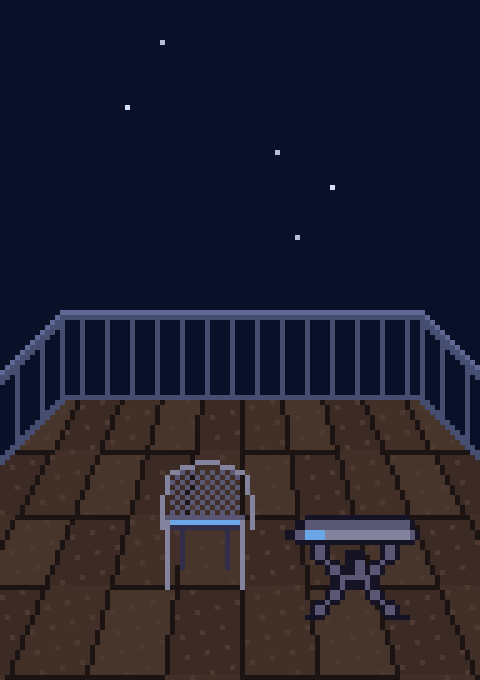
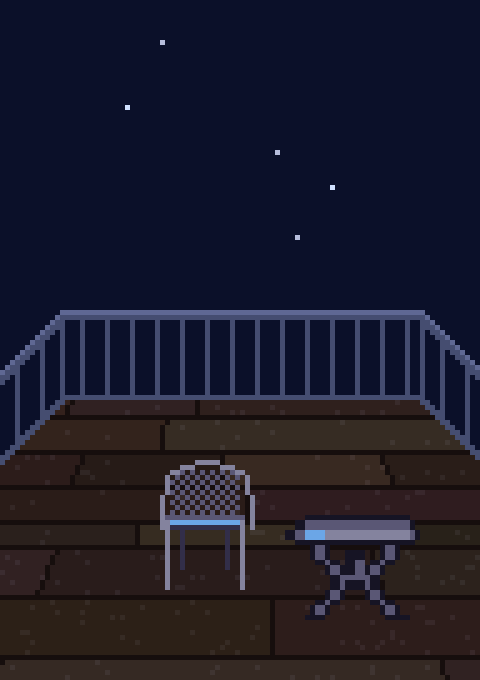
Balcony 2D: horizontal irregular dark plank floor
Claude-Session: https://claude.ai/code/session_01FPZSaKiVNU2zED737yZX4w

Changed region(s): [[0.0, 0.5868, 1.0, 1.0]]

diff --git a/tools/render_balcony2d.py b/tools/render_balcony2d.py
@@ -29,19 +29,32 @@ def main():
     ST, SB = 3, 2                                                 # 양옆 꺾인 부분 윗줄만 한 칸 더 굵게
     def base_at(x):                                        # 아래 가로대(땅 경계)의 높이
         d = max(L - x, x - Rr, 0); return round(base_y + d)
-    # 나무판자 바닥(원근법): 소실점 (VX, VY)로 모이는 판자 이음선, 가까울수록 판이 커진다
-    PL = [(78, 52, 35), (70, 47, 32), (84, 57, 38)]
-    VX, VY, G, BW = W / 2, 20.0, 1.18, 8.0
+    # 나무판자 바닥(원근법): 판은 가로로 길게, 줄 사이 이음은 가로선, 판 끝 이음은 소실점으로 모인다. 폭·색·이음 위치는 불규칙
+    fr = random.Random(21)
+    VX, VY = W / 2, 20.0
+    rows, t = [], 1.0
+    while t < 2.2:                                        # 줄의 깊이 경계(t=1 안쪽 끝, 클수록 가깝다), 줄 폭 불규칙
+        nt = t * (1 + fr.uniform(.05, .13)); rows.append((t, nt)); t = nt
+    base_cols = [(60, 40, 27), (52, 34, 24), (66, 44, 29), (56, 37, 26), (48, 32, 22)]
+    row_info = []
+    for (t0, t1) in rows:
+        joints, xj = [], fr.uniform(-60, 0)
+        while xj < 200:
+            xj += fr.uniform(22, 70); joints.append(xj)    # 안쪽 끝 기준 판 끝 위치
+        cols = [tuple(max(0, v + fr.randint(-4, 4)) for v in fr.choice(base_cols)) for _ in joints]
+        row_info.append((t0, t1, joints, cols))
     for x in range(W):
         for y in range(base_at(x) + (SB if (x < L or x > Rr) else TB), H):
-            t = (y - VY) / (base_y - VY)                       # 1 = 안쪽 끝(철창 아래), 클수록 가깝다
-            xb = VX + (x + .5 - VX) / t; u = math.floor(xb / BW)  # 안쪽 끝 기준 가로 위치 → 판 번호
-            k = math.log(t) / math.log(G); r = math.floor(k)    # 앞뒤 방향 줄 번호
-            rowh = (base_y - VY) * t * math.log(G)              # 이 줄의 화면 높이
-            c = PL[(u * 5 + r * 2) % 3]
-            if ((xb - u * BW) * t < 1.0): c = (34, 22, 16)       # 판 사이 세로 이음(소실점으로 모임)
-            elif (k - r) * rowh < 1.0 and (u + r) % 3: c = (34, 22, 16)   # 판 끝 가로 이음(판마다 어긋남)
-            elif (x * 5 + y * 3) % 17 == 0: c = (92, 63, 42)     # 나뭇결 점
+            t = (y - VY) / (base_y - VY)
+            ri = next((r for r in row_info if r[0] <= t < r[1]), row_info[-1])
+            t0, t1, joints, cols = ri
+            xb = VX + (x + .5 - VX) / t
+            n = next((k for k, jx in enumerate(joints) if xb - VX + 100 < jx), len(joints) - 1)
+            c = cols[n]
+            ypx0 = VY + (base_y - VY) * t0
+            if y - ypx0 < 1.0: c = (26, 16, 12)                            # 줄 사이 가로 이음
+            elif n > 0 and (xb - VX + 100 - joints[n - 1]) * t < 1.0: c = (26, 16, 12)   # 판 끝 이음
+            elif fr.random() < .035: c = tuple(v + 12 for v in c)                    # 나뭇결 점
             px[x, y] = c + (255,)
     def seg(p0, p1, col):
         (x0, y0), (x1, y1) = p0, p1; n = max(abs(x1 - x0), abs(y1 - y0)) or 1
